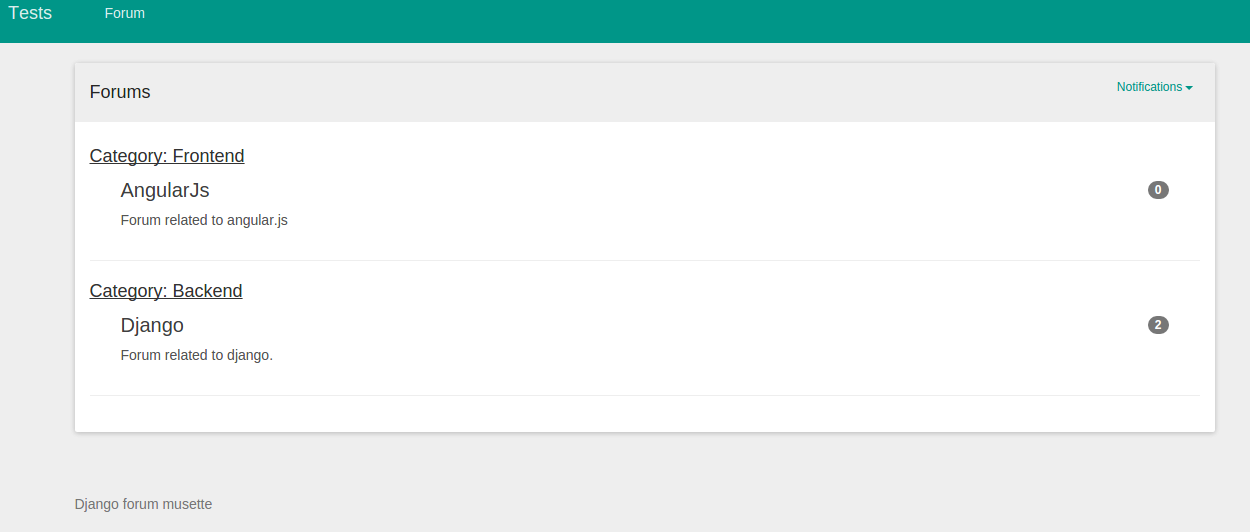
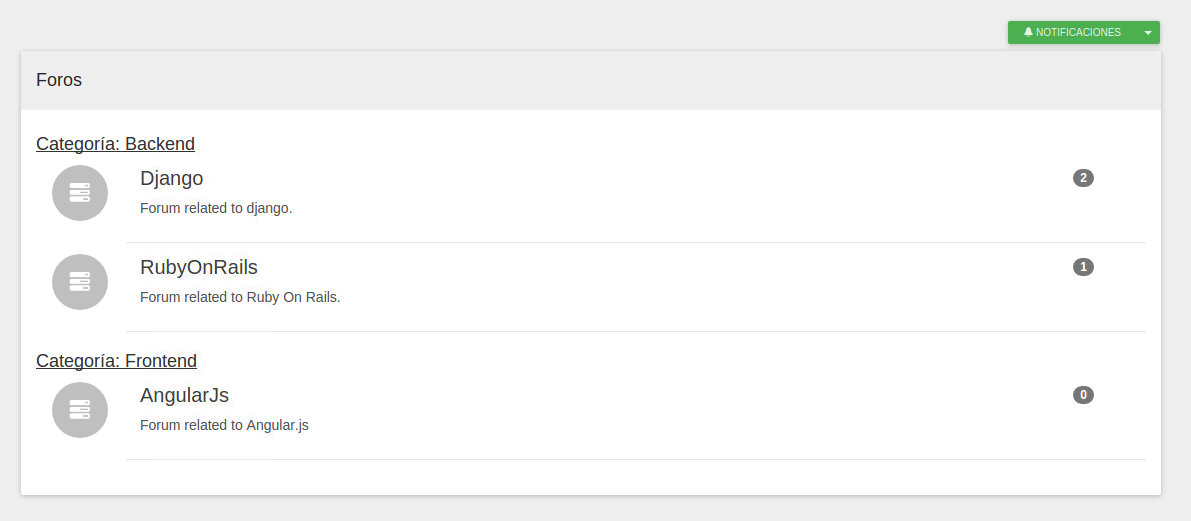
Version 0.0.6

diff --git a/musette/templates/musette/notification.html b/musette/templates/musette/notification.html
@@ -1,36 +1,41 @@
 {% load i18n %}
 {% load forum_filter %}
 
-<li class="dropdown without-style-list btn btn-sm pull-right" id="notifications_dropdown">
-  	<a href="#" class="dropdown-toggle" data-toggle="dropdown" role="button" aria-expanded="false">
-  		{% if user.id|get_pending_notifications > 0 %}
-  		<span id="badge_notifications" class="badge">{{user.id|get_pending_notifications}}</span>
-  		{% endif %}
-  		<span class="without-text-transform"> {% trans "Notifications" %}</span>
-		<span class="caret"></span>
-  	</a>
-  	<ul class="dropdown-menu dropdown-cart" role="menu">
-  		{% for notification in notifications|slice:"5" %}
-  			<li class="item-notification">
-		        <span class="item">
-		            <span class="item-left">
-		            	{% if notification.is_view %}
-							{{notification|get_item_notification|safe}}
-		            	{% else %}
-							{{notification|get_item_notification|safe}}
-		            	{% endif %}
-		            </span>
-		        </span>
-		    </li>
+<div class="btn-group pull-right" id="notifications_dropdown">
+    <button class="btn btn-success btn-xs" type="button">
+    {% if user.id|get_pending_notifications > 0 %}
+      <span id="badge_notifications" class="badge">{{user.id|get_pending_notifications}}</span>
+    {% endif %}
+    <i class="glyphicon glyphicon-bell"></i>
+    {% trans "Notifications" %}
+    </button>
+    <button data-toggle="dropdown" class="btn btn-success btn-xs dropdown-toggle" type="button"><span class="caret"></span>
+    </button>
+    <ul class="dropdown-menu dropdown-cart" role="menu">
+      {% for notification in notifications|slice:"5" %}
+        <li class="item-notification">
+            <span class="item">
+                <span class="item-left">
+                  {% if notification.is_view %}
+              {{notification|get_item_notification|safe}}
+                  {% else %}
+              {{notification|get_item_notification|safe}}
+                  {% endif %}
+                </span>
+            </span>
+        </li>
       {% empty %}
           <center><p class="without-text-transform">{% trans "No notifications" %}</p></center>
-  		{% endfor %}
+          <li class="divider"></li>
+      {% endfor %}
         <li class="divider"></li>
         <li><a class="text-center" href="/forum_all_notification/">
-        	<span class="without-text-transform">
-        		<span class="glyphicon glyphicon-envelope"></span>
-        		{% trans "All" %}
-        	</span>
+          <span class="without-text-transform">
+            <span class="glyphicon glyphicon-envelope"></span>
+            {% trans "All" %}
+          </span>
         </a></li>
-  	</ul>
-</li>
+    </ul>
+</div>
+
+

diff --git a/musette/templates/musette/topic_index.html b/musette/templates/musette/topic_index.html
@@ -2,6 +2,7 @@
 
 {% load i18n %}
 {% load static %}
+{% load forum_filter %}
 {% load hitcount_tags %}
 
 {% block extra_js %}
@@ -14,7 +15,7 @@
 
 {% block content %}
 
-<div class="container-build">
+<div class="container">
 
   {% get_hit_count for topic as total_hits %}
 
@@ -46,13 +47,6 @@
                   <i class="glyphicon glyphicon-trash"></i> {% trans "Delete" %}</a>
                 {% endif %}
               </div>
-              <div style="text-align: center">
-                {% if total_hits|add:"0" > 1 %}
-                  <p style="margin-top: 5px;">{% trans "This topic has" %} {{ total_hits }} {% trans "views" %}</p>
-                {% else %}
-                  <p style="margin-top: 5px;">{% trans "This topic has" %} {{ total_hits }} {% trans "view" %}</p>
-                {% endif %}
-              </div>
             </div>
             <div class="col-md-10 col-sm-10">
               <div class="panel panel-default arrow left">
@@ -70,6 +64,14 @@
                     </p>
                   </div>
                   <hr>
+                  <div class="pull-left">
+                    {% if total_hits|add:"0" > 1 %}
+                      <p style="margin-top: 5px;">{% trans "This topic has" %} {{ total_hits }} {% trans "views" %}</p>
+                    {% else %}
+                      <p style="margin-top: 5px;">{% trans "This topic has" %} {{ total_hits }} {% trans "view" %}</p>
+                    {% endif %}
+                    <p><b><u>{% trans "Users" %}</u></b> {{topic|get_tot_users_comments|safe}} </p>
+                  </div>
                   <p class="pull-right">{{topic.date}}</p>
                 </div>
               </div>
@@ -79,7 +81,7 @@
     </div>
   </div>
 
-  <hr>
+  <br>
 
   <div id="data-template" class="endless_page_template">
       {% include "musette/topic.html" %}

diff --git a/musette/templates/musette/forum.html b/musette/templates/musette/forum.html
@@ -4,6 +4,7 @@
 {% load static %}
 {% load hitcount_tags %}
 {% load forum_filter %}
+{% load photo %}
 
 {% block extra_js %}
 <script src="{% static 'js/hitcount/django-hitcount.js' %}"></script>
@@ -54,7 +55,7 @@
 				      <tr>
 				      	<th>#</th>
 				        <th>{% trans "Title" %}</th>
-				        <th>{% trans "Users" %}</th>
+				        <th>{% trans "User" %}</th>
 				    	<th>{% trans "Responses" %}</th>
 				    	<th>{% trans "Views" %}</th>
 				        <th>{% trans "Date" %}</th>
@@ -64,13 +65,18 @@
 				    	{% for topic in topics %}
 				    		{% if topic.moderate %}
 							    <tr>
-							    	<td>{{forloop.counter}}</td>
-							        <td>
+							    	<td><i class="glyphicon glyphicon-comment"</i></td>
+							        <td style="max-width: 25.0em">
 							        	<a href="/topic/{{forum.name}}/{{topic.slug}}/{{topic.idtopic}}/"
 							        	data-toggle="tooltip" data-placement="bottom" title="{% trans 'Views' %}: {% get_tot_views topic.idtopic %}">
 							        	{{topic.title}}
-							        </a></td>
-							        <td>{{topic|get_tot_users_comments|safe}}</td>
+							        	</a>
+							        	<p>{{ topic.description|safe|truncatechars:300 }}</p>
+							    	</td>
+							        <td>
+							        	<img src="{{topic.user.id|get_photo}}" class='img-circle' width="30", height="30" />
+							        	<p>{{topic.user.username|get_path_profile|safe}}</p>
+							        </td>
 							        <td>{{topic.idtopic|get_tot_comments}}</td>
 							        <td>{% get_tot_views topic.idtopic %}</td>
 							        <td>{{topic.date}}</td>

diff --git a/musette/templates/musette/topic.html b/musette/templates/musette/topic.html
@@ -17,14 +17,13 @@
 <!-- Comments-->
 {% paginate comments  %}
 {% for comment in comments %}
-  <article>
+  <article class="row">
     <div class="col-md-1 col-sm-1 hidden-xs">
       <figure class="thumbnail">
-        <img class="img-responsive" src="{{comment.user.id|get_photo}}"/>
-        <figcaption class="text-center"><a href="{{URL_PROFILE}}{{comment.user.username}}">{{comment.user.username}}</a></figcaption>
+        <a href="{{URL_PROFILE}}{{comment.user.username}}"><img class="img-responsive" src="{{comment.user.id|get_photo}}"/></a>
       </figure>
     </div>
-    <div class="col-md-10 col-sm-10">
+    <div class="col-md-11 col-sm-11">
       <div class="panel panel-default arrow left">
         <div class="panel-body">
           <header class="text-left">
@@ -34,6 +33,7 @@
             <div class="well" style="margin-top: 5px">
               {{comment.description|safe}}
             </div>
+            <a href="{{URL_PROFILE}}{{comment.user.username}}">{{comment.user.username}}</a>
           </div>
           {% if comment.user.id == user.id %}
             <div class="span4 offset4 text-right">

diff --git a/musette/templates/musette/index.html b/musette/templates/musette/index.html
@@ -15,7 +15,8 @@
 	{% if user.id %}
 		{% include "musette/notification.html" %}
 	{% endif %}
-
+	<br>
+	<br>
 	<div class="panel panel-default">
 		<div class="panel-heading"><h4>{% trans "Forums" %}</h4></div>
 	  	<div class="panel-body">

diff --git a/musette/templatetags/forum_filter.py b/musette/templatetags/forum_filter.py
@@ -69,6 +69,8 @@ def get_tot_users_comments(topic):
 	idtopic = topic.idtopic
 	users = Comment.objects.filter(topic_id=idtopic)
 
+	url_profile = settings.URL_PROFILE
+
 	data = ""
 	lista = []
 	for user in users:
@@ -81,7 +83,7 @@ def get_tot_users_comments(topic):
 			tooltip = ""
 			tooltip += "data-toggle='tooltip' data-placement='bottom'"
 			tooltip += "title='"+ usuario +"'"
-			data += "<a href='/profile/"+ usuario +"' "+tooltip+" >"
+			data += "<a href='"+url_profile+ usuario +"' "+tooltip+" >"
 			data += "<img class='img-circle' src='"+str(photo)+"' "
 			data += "width=30, height=30></a>"
 
@@ -93,12 +95,21 @@ def get_tot_users_comments(topic):
 		tooltip = ""
 		tooltip += "data-toggle='tooltip' data-placement='bottom'"
 		tooltip += "title='"+ usuario +"'"
-		data += "<a href='/profile/"+ usuario +"' "+tooltip+" >"
+		data += "<a href='"+url_profile+ usuario +"' "+tooltip+" >"
 		data += "<img class='img-circle' src='"+str(photo)+"' "
 		data += "width=30, height=30></a>"
 
 
 	return data
+
+
+@register.filter
+def get_path_profile(usuario):
+	'''
+		Return tag a with profile
+	'''
+	url_profile = settings.URL_PROFILE
+	return "<a href='"+url_profile+ usuario +"'>"+usuario+"</a>"
 
 
 @register.filter
@@ -151,7 +162,8 @@ def get_item_notification(notification):
 			else:
 				path_img = static("img/profile.png")
 
-			user = "<a href='/profile/"+username+"'><p>" +  name +"</p></a>"
+			url_profile = settings.URL_PROFILE
+			user = "<a href='"+url_profile+username+"'><p>" +  name +"</p></a>"
 			date = get_datetime_topic(notification.date)
 
 			html += '<div class="list-group">'

diff --git a/tests/tests/settings.py b/tests/tests/settings.py
@@ -115,7 +115,7 @@ LANGUAGES = (
 )
 
 LOCALE_PATHS = (
-    os.path.join(BASE_DIR, 'locale'),
+    os.path.join(BASE_DIR + "/musette/", 'locale'),
 )
 
 # Static files (CSS, JavaScript, Images)

diff --git a/musette/version.py b/musette/version.py
@@ -1,4 +1,4 @@
-VERSION = (0, 0, 5, 'final')
+VERSION = (0, 0, 6, 'final')
 __version__ = VERSION
 
 

diff --git a/README.rst b/README.rst
@@ -103,6 +103,13 @@ Visit 127.0.0.1:8000/forums you should see the categories and forums.
 
 .. image:: https://github.com/mapeveri/django-musette/blob/master/images/index.png
 
+.. image:: https://github.com/mapeveri/django-musette/blob/master/images/forum.png
+
+.. image:: https://github.com/mapeveri/django-musette/blob/master/images/notifications.png
+
+.. image:: https://github.com/mapeveri/django-musette/blob/master/images/topic.png
+
+.. image:: https://github.com/mapeveri/django-musette/blob/master/images/new_topic.png
 
 Features:
 ---------
